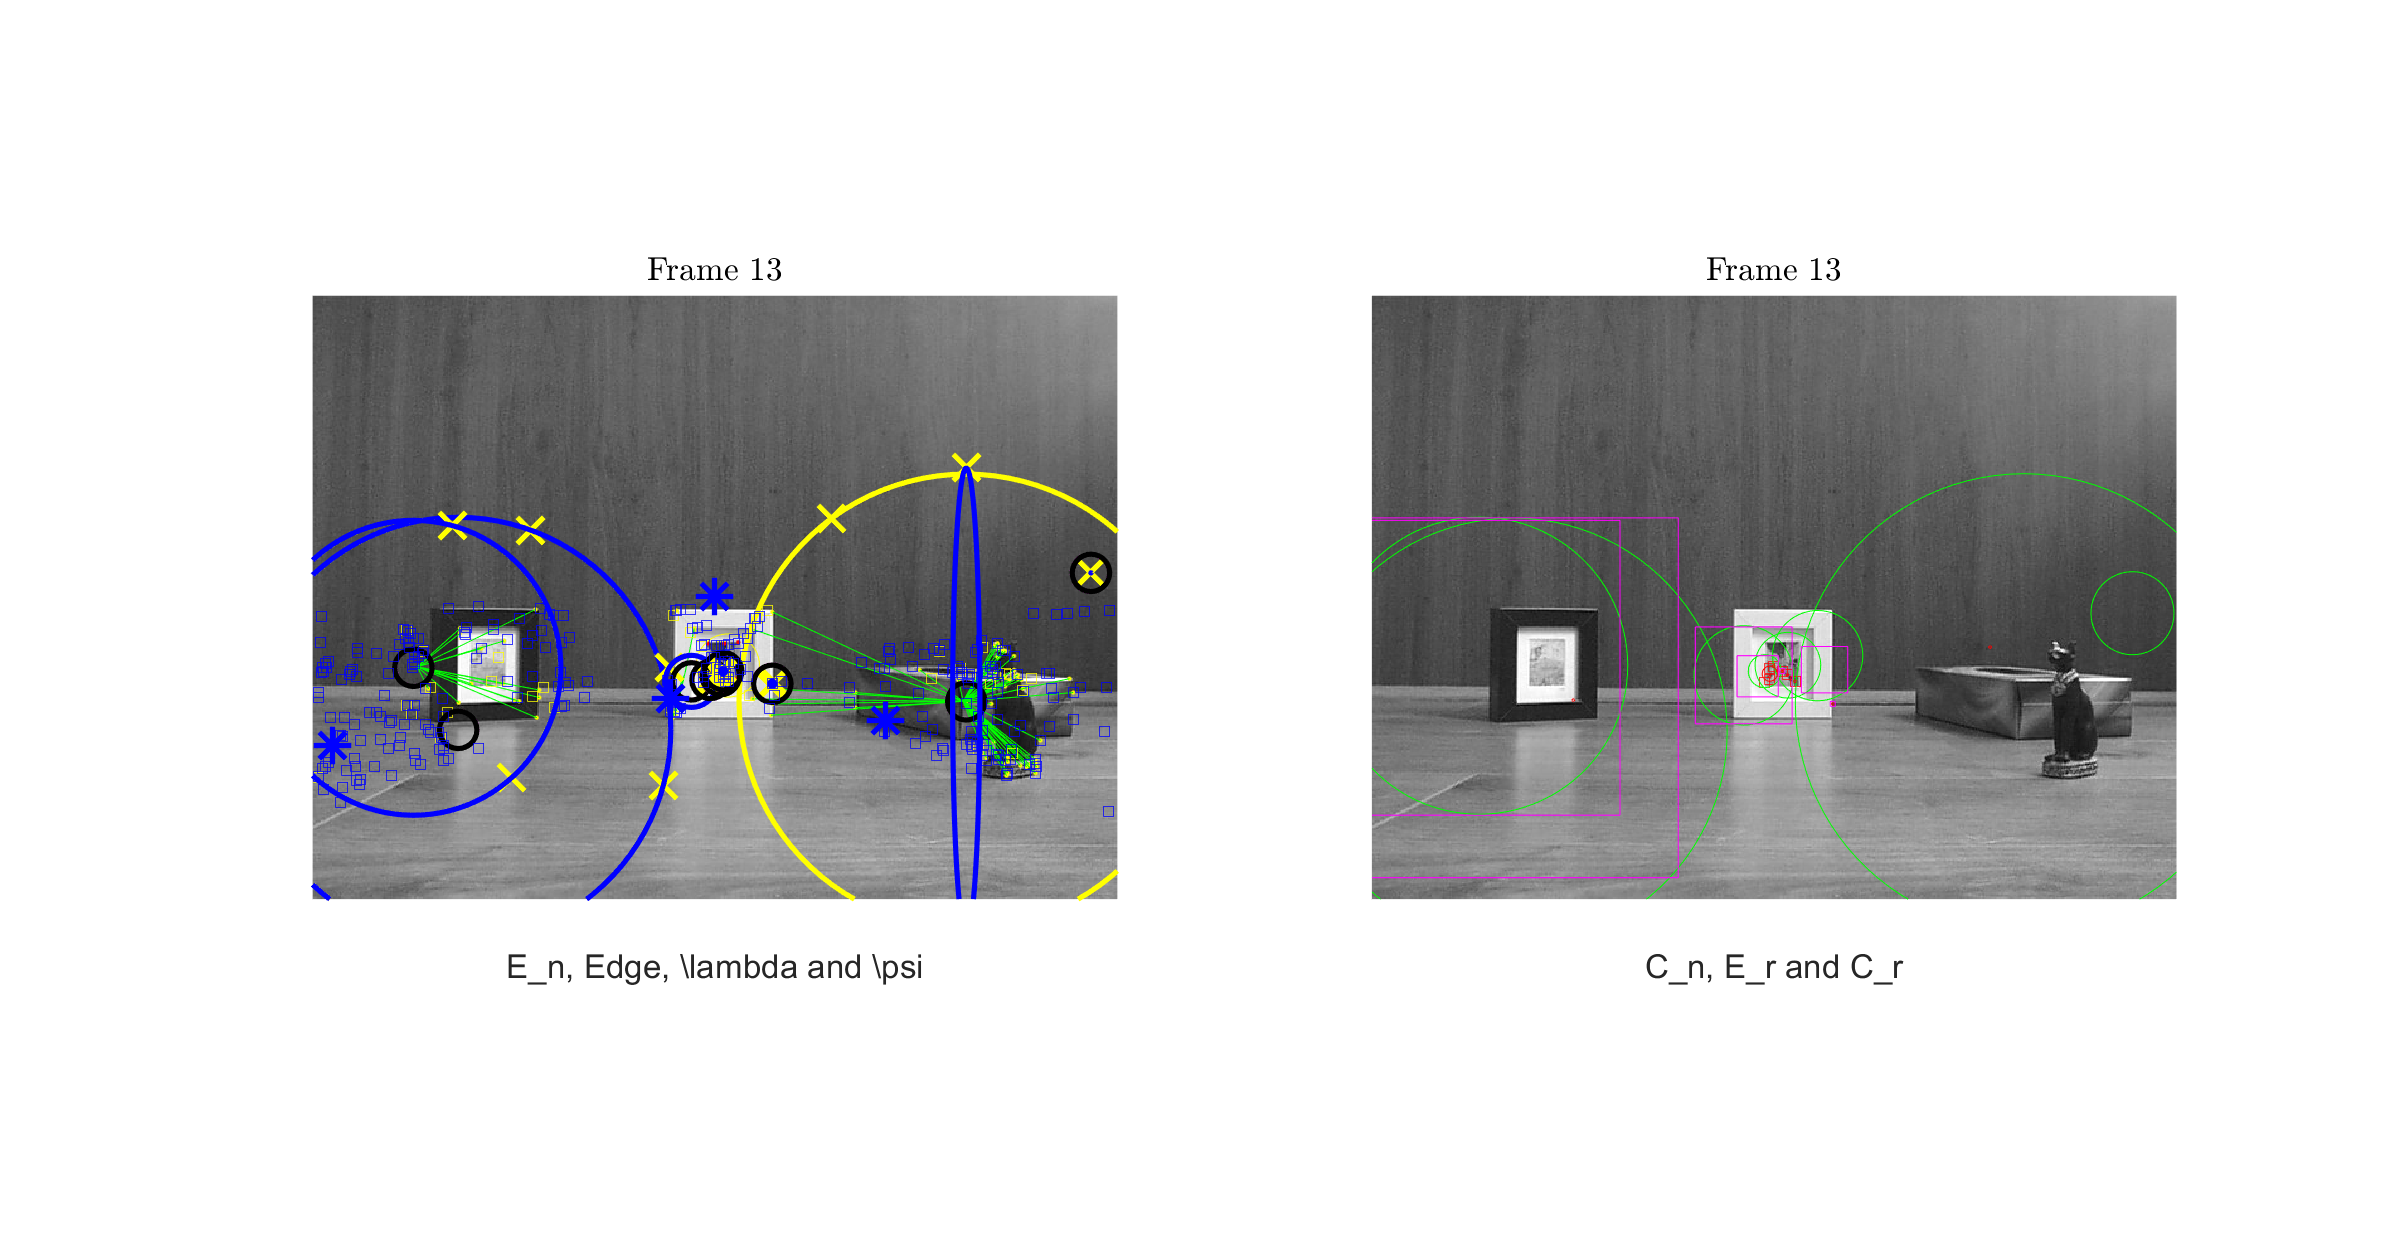
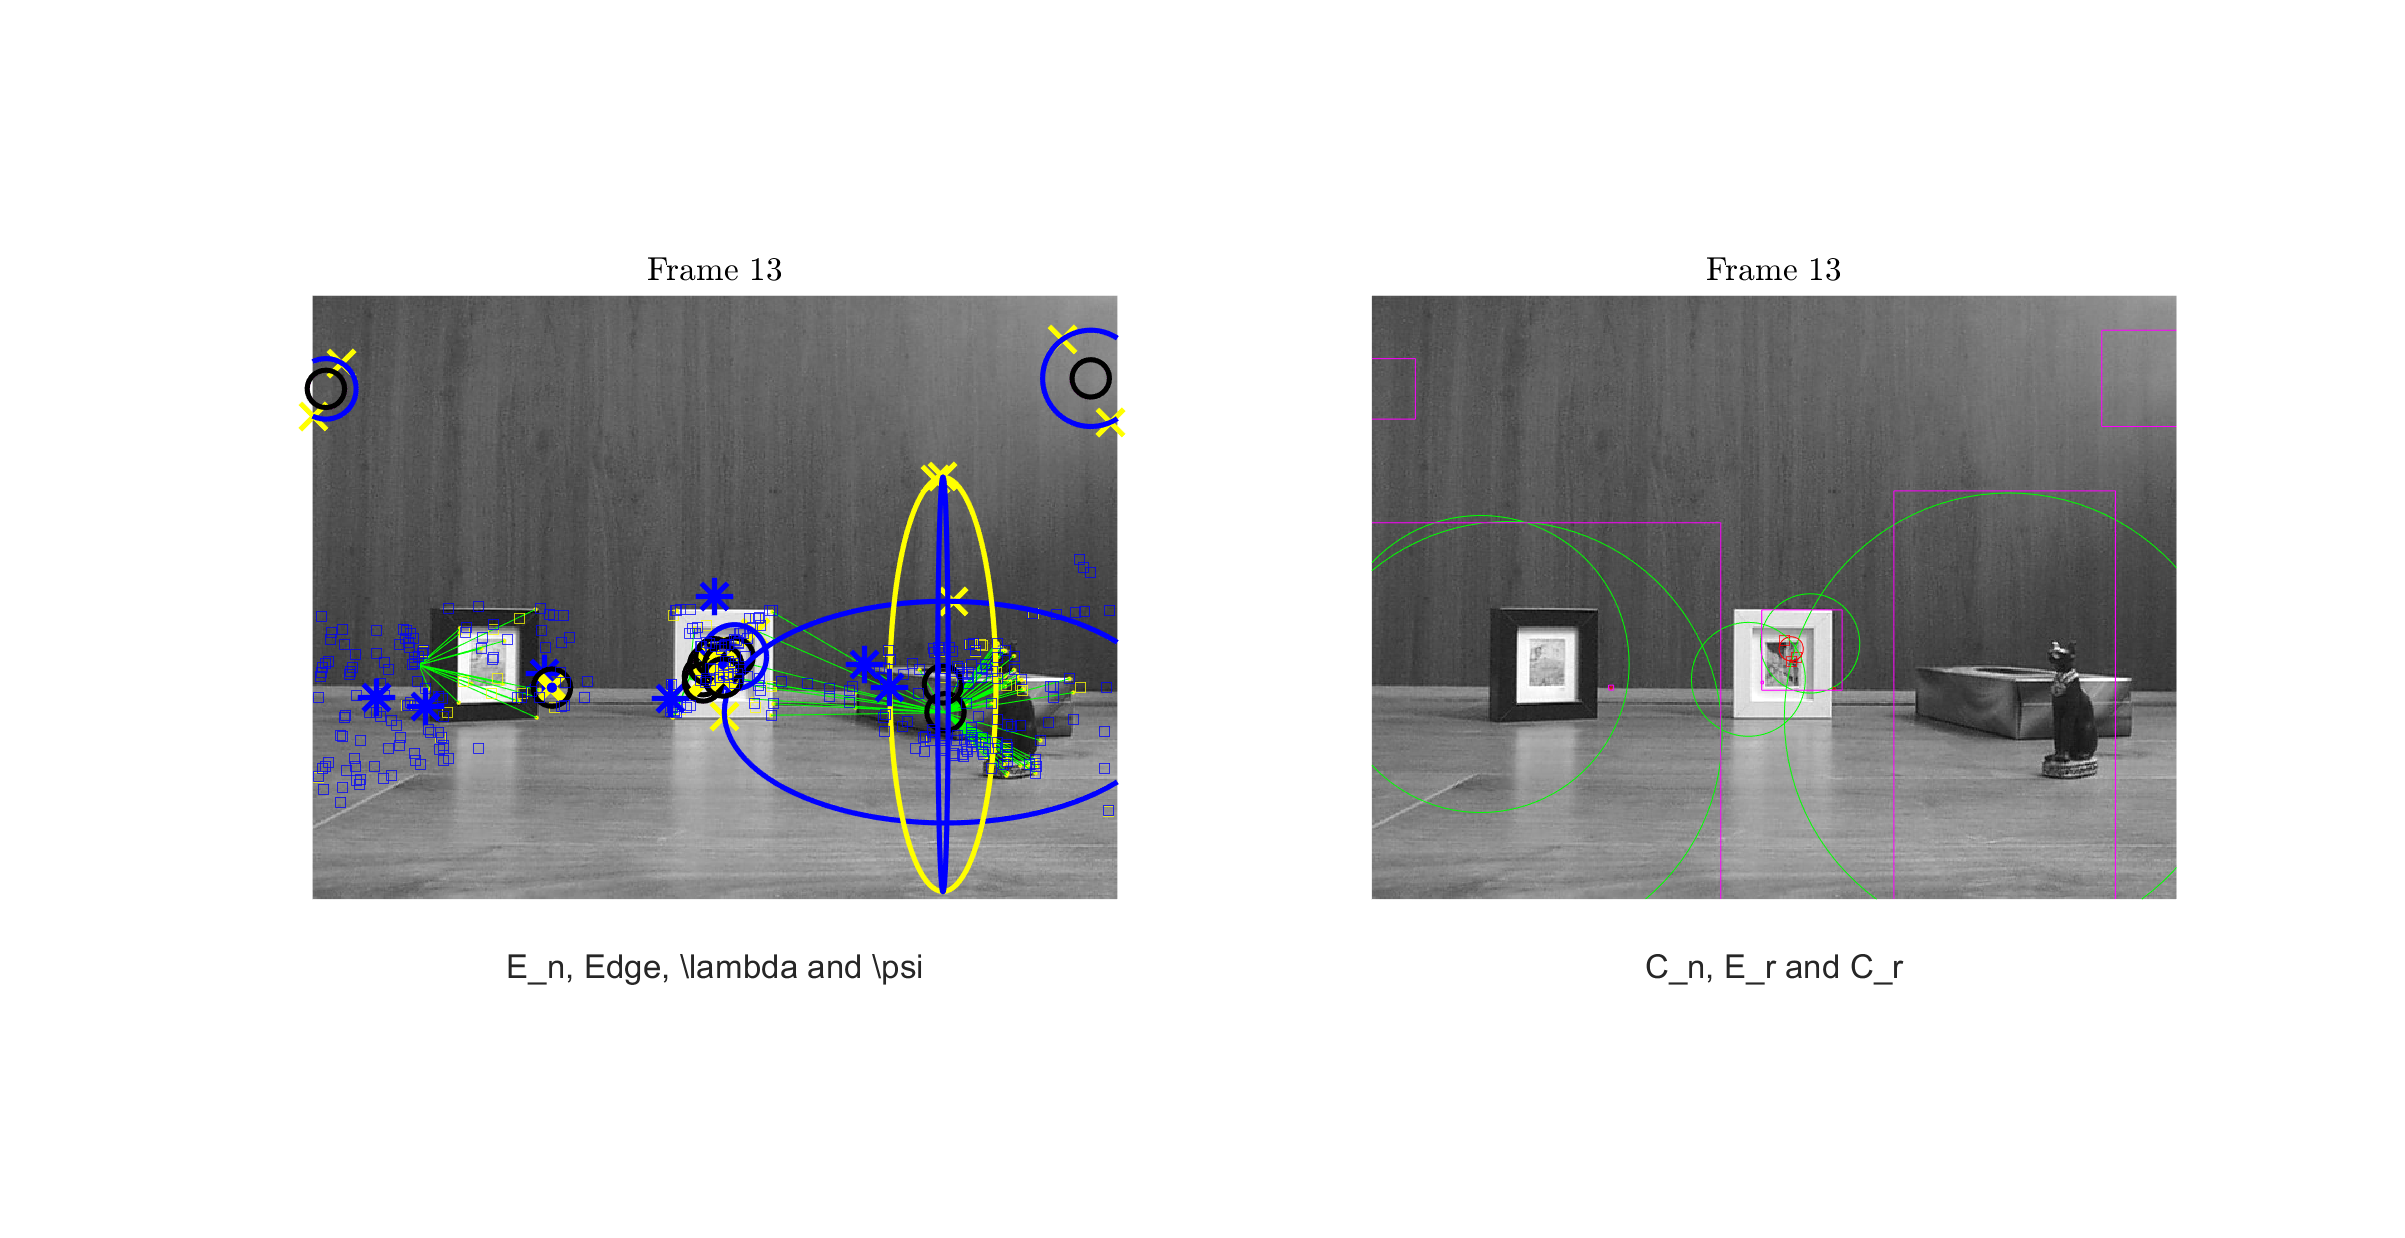
Averraged Circle Velocity
PReviously, the estimated circle velocity was just sum of approximated circle and groupped edges so I add an avrange and it works better now :D

diff --git a/Circle.m b/Circle.m
@@ -666,7 +666,7 @@ else
                             Cr(ci,1) = ((((Cr(ci,4)-Trcr)*(NCn(1,1)))+MY)/((Cr(ci,4)-Trcr)+1));
                             Cr(ci,2) = ((((Cr(ci,4)-Trcr)*(NCn(1,2)))+MX)/((Cr(ci,4)-Trcr)+1)); %Estimation of En, X direction
                             Cr(ci,4) = Cr(ci,4)+1; %Trust High
-                            Cr(ci,6) = Cr(ci,6)+mean(M(:,6));
+                            Cr(ci,6) = (Cr(ci,6)+mean(M(:,6)))/2;
                             u = (numel(TErM(:,1)))+1;
                             %%%----- Killer of Mother Er
                             TErM = TEr;
@@ -678,7 +678,7 @@ else
                             Cr(ci,3) = ((((Cr(ci,4)-Trcr)*(Cr(ci,3)))+MR)/((Cr(ci,4)-Trcr)+1));
                             Cr(ci,4) = Cr(ci,4)-1; %Trust Low
                             Cr(ci,5) = ((((Cr(ci,4)-Trcr)*(Cr(ci,5)))+mean(M(:,5)+M(:,3)))/((Cr(ci,4)-Trcr)+1));
-                            Cr(ci,6) = Cr(ci,6)+mean(M(:,6));
+                            Cr(ci,6) = (Cr(ci,6)+mean(M(:,6)))/2;
                             Cr(ci,7) = OY;
                             Cr(ci,8) = OX;
                             u = (numel(TErM(:,1)))+1;
@@ -829,7 +829,7 @@ else
                             C(ci,1) = ((((C(ci,4)-Trcr)*(NCn(1,1)))+MY)/((C(ci,4)-Trcr)+1));
                             C(ci,2) = ((((C(ci,4)-Trcr)*(NCn(1,2)))+MX)/((C(ci,4)-Trcr)+1)); %Estimation of En, X direction
                             C(ci,4) = C(ci,4)+1; %Trust High
-                            C(ci,6) = C(ci,6)+mean(M(:,6));
+                            C(ci,6) = (C(ci,6)+mean(M(:,6)))/2;
                             u = (numel(TEnM(:,1)))+1;
                             %%%----- Killer of Mother Er
                             TEnM = TEn;
@@ -840,7 +840,7 @@ else
                             C(ci,3) = ((((C(ci,4)-Trcr)*(C(ci,3)))+MR)/((C(ci,4)-Trcr)+1));
                             C(ci,4) = C(ci,4)-1; %Trust Low
                             C(ci,5) = ((((C(ci,4)-Trcr)*(C(ci,5)))+mean(M(:,5)+M(:,3)))/((C(ci,4)-Trcr)+1));
-                            C(ci,6) = C(ci,6)+mean(M(:,6));
+                            C(ci,6) = (C(ci,6)+mean(M(:,6)))/2;
                             u = (numel(TEnM(:,1)))+1;
                             %%%----- The TEr that lost edges which grouped is placed to mother
                             %%%TErM

diff --git a/main_offline.m b/main_offline.m
@@ -40,10 +40,10 @@ Trmax = 5;
 
 % kinematic variables (simulated)
 Dv = 0.1;
-Av = 0.0001;
-Vv = 0.03;
-deltay = 3;
-deltaz = 3;
+Av = 0.01;
+Vv = (0.03);
+deltay = 4;
+deltaz = 4;
 
 %% main code begins
 drs = './example_pictures'; % in current directory
